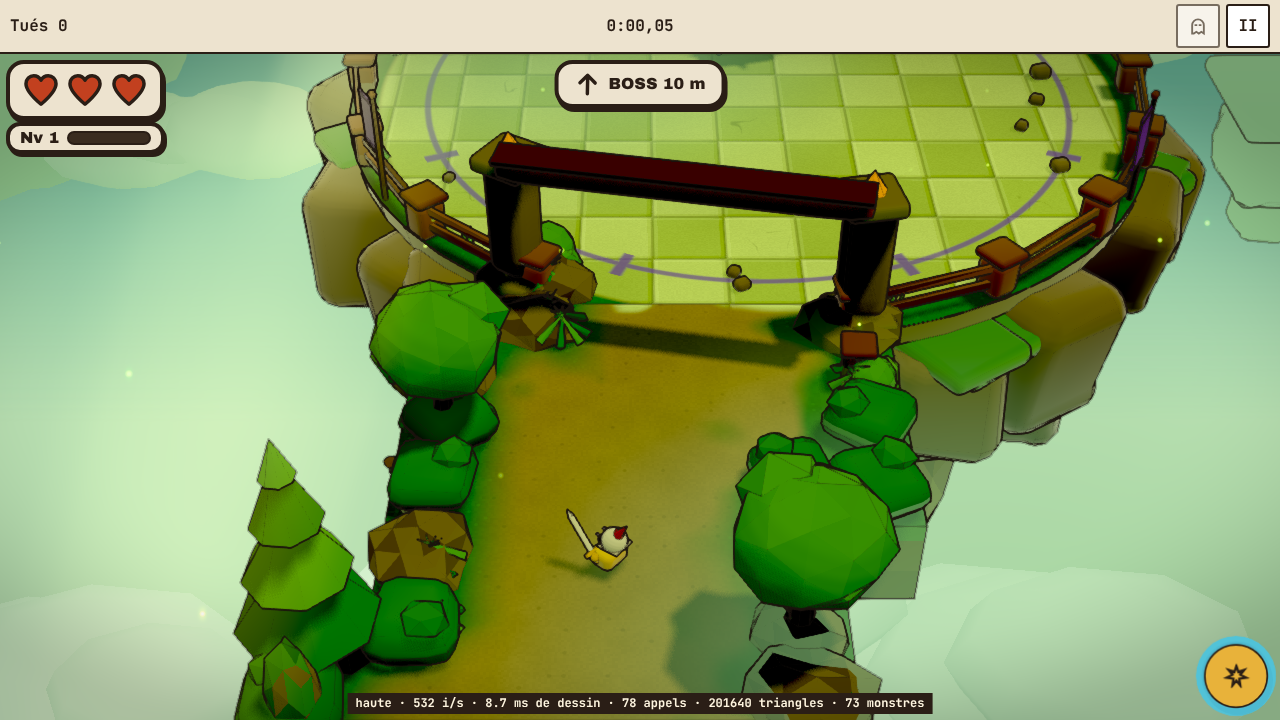
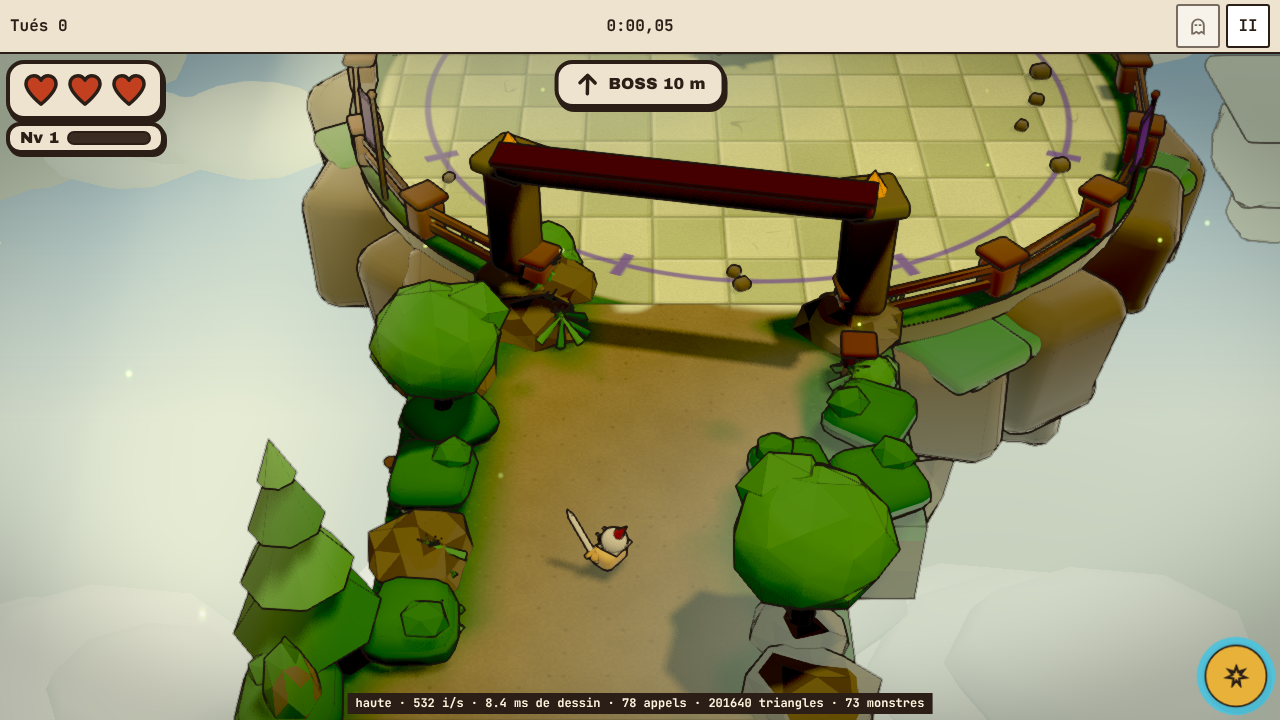
Lot BR-A2 : sous-bois moins verdâtre (lumière, ciel, brume, étalonnage, dalles), captures refaites, note sur la CI
Claude-Session: https://claude.ai/code/session_012eMWG1PEoCaJhKtErBeVDJ

diff --git a/apps/rush/src/palette.ts b/apps/rush/src/palette.ts
@@ -70,10 +70,10 @@ export const PALETTES: Readonly<Record<string, PaletteMonde>> = {
     particules: { genre: "poussiere", couleur: 0xf0d2a0, couleur2: 0xe0b878, nombre: 200, taille: 0.2 }, rais: 0.15, brumeBasse: 0.3,
   },
   "sousbois": {
-    fond: 0xa6c9a4, sol: 0xd6e3a6, sol2: 0xc3d58c, mur: 0x3e7a3c, murHaut: 0x5a9a4c, lumiere: 0xfff1bf, ambiance: 0xcfe2b4, intensiteLumiere: 1.75, intensiteAmbiance: 1.05, hemiCiel: 0xc2dcbb, hemiSol: 0xa9c283, brume: 0xa4c9a2,
-    tranche: 0x8f8a58, falaise: 0x6e5f44, falaise2: 0x8a7a58, herbe: 0x6fae5a, herbe2: 0x4f9148, bois: 0x8e5f36, bois2: 0x62412a, nuage: 0xeaf6e4, cielHaut: 0x7fb4a6, cielBas: 0xc4dcc0,
-    terre: 0xb09a62, terre2: 0xa08a54, herbeSol: 0x4a8c3c, herbeSol2: 0x3d7a32, brumeProche: 40, brumeLoin: 120, soleil: [7, 19, -2],
-    etalonnage: { bloom: 1.3, vignette: 0.42, teinte: [0.9, 0.99, 0.88], saturation: 1.1, contraste: 1.12 },
+    fond: 0xb4c2b0, sol: 0xe4e8b8, sol2: 0xd4dca4, mur: 0x3e7a3c, murHaut: 0x5a9a4c, lumiere: 0xffe9b6, ambiance: 0xdcdcc6, intensiteLumiere: 1.8, intensiteAmbiance: 1.05, hemiCiel: 0xd0d8d0, hemiSol: 0xb8b08c, brume: 0xb9c3b2,
+    tranche: 0x8f8a58, falaise: 0x6e5f44, falaise2: 0x8a7a58, herbe: 0x6fae5a, herbe2: 0x4f9148, bois: 0x8e5f36, bois2: 0x62412a, nuage: 0xf0f2ea, cielHaut: 0x93b0bd, cielBas: 0xd2dacf,
+    terre: 0xb09a68, terre2: 0xa08a5a, herbeSol: 0x558842, herbeSol2: 0x487a38, brumeProche: 40, brumeLoin: 120, soleil: [7, 19, -2],
+    etalonnage: { bloom: 1.3, vignette: 0.4, teinte: [0.97, 0.97, 0.92], saturation: 1.0, contraste: 1.1 },
     particules: { genre: "lucioles", couleur: 0xe6ff7a, couleur2: 0xb8ff9a, nombre: 90, taille: 0.16 }, rais: 0.9, brumeBasse: 0.8,
   },
 };

diff --git a/docs/rush/lots/lot-BR-A2-monde.md b/docs/rush/lots/lot-BR-A2-monde.md
@@ -24,6 +24,7 @@ Avant : `br-a2-avant-*.png` (le jour, la salle d'épreuve, le boss, la vitrine ;
 | 1 | `br-a2-tour1-planche-{a,b,vitrines}.png` | **carrière** : sol presque blanc, soleil trop dur ; **sous-bois** : lavé, sans ombre ni brume ; peu d'îles lointaines ; cercle de l'épreuve trop pâle ; encoches de l'anneau du boss trop larges ; entrée de l'arène hors champ dans la capture → sol de la carrière plus gris-bleu (`lisibilite` ≥ 40 gardé), soleil de la carrière à 2,0 ; sous-bois : soleil 1,75, ambiance 1,05, étalonnage sombre et frais (teinte 0,9 / 0,99 / 0,88), vignettage 0,42, brume plus verte ; 2,6 fois plus d'îles ; cercle plus sombre ; encoches fines ; capture à 9 m de l'arène |
 | 2 | `br-a2-tour2-planche-{a,b,vitrines}.png` | brins d'herbe réduits à des pointes noires par le contour ; herbe du sous-bois trop sombre ; damier de la prairie trop pâle et sans contraste entre dalles → brins larges et moins nombreux, fleurs plus grosses, herbe du sous-bois plus claire, contraste du damier dans le matériau, sable de la prairie plus chaud (limité par la tête du golem : ΔE ≥ 40) |
 | 3 | `br-a2-t3-*.png` (18 images) et les comparaisons | écarts restants : §5 |
+| retour de Nathan | `br-a2-t3-*-sousbois.png` refaites | **sous-bois trop verdâtre** (lumière, ciel, brume, étalonnage, dalles toutes vertes) → teinte de l'étalonnage presque neutre (0,97 / 0,97 / 0,92, saturation 1), lumière chaude, ciel gris-bleu, brume grise, hémisphérique neutre, dalles vert-jaune pâle ; l'ombre (vignettage, brume basse), les rais et les lucioles restent ; prairie et carrière inchangées |
 
 ## 4. Mesures
 **Golden** : `packages/rush-sim` non modifié ; `npx vitest run --project sqlite packages/rush-sim` (dont le golden et le déterminisme) vert, golden inchangé au bit près. **Tests** : `apps/rush` (unitaires : 213 tests) vert ; **les 51 tests e2e de Rush (Chromium, en local) verts**, dont `monde.spec.ts` ; `packages/rush-sim` : 358 tests verts, aucun fichier du paquet modifié. `npm run consignes`, `npm run fiches` à jour.
@@ -49,6 +50,9 @@ Avant le lot : 57 à 65 appels et 142 k triangles sur le jour (haute), 58 appels
 - **Le muret** : la cible a des poteaux de bois taillés, aux arêtes écaillées ; les nôtres sont des blocs arrondis (la fabrique est faite pour qu'un modèle les remplace).
 - **La bande du haut** est celle du kit (pas de pastille « RUSH · DAILY RUN », ni de chrono en pastille) ; les boutons du téléphone n'ont pas les icônes pleines de la cible. Lot de plateforme à venir.
 - **Peu de nuages proches** et pas de lumières dorées sur le chemin (les gemmes de la cible) : les gemmes viennent de BR2.
+
+## 5 bis. CI
+Le job « jeu fictif (3/3) » a échoué sur deux tests de **temps de génération de Track** (`packages/sim/test/blocs58-avant-apres.test.ts` : 890 ms contre 857 ; `variete365.test.ts` : 5 044 ms contre 4 500), une zone que ce lot ne touche pas, sur un runner chargé (le job a duré 17 min). Règle d'arrêt : un nouveau commit relance la CI une fois ; s'il échoue encore, c'est à Nathan de trancher, on ne corrige pas.
 
 ## 6. Ce qui n'est pas vérifié
 - **Aucun téléphone réel** : appels et triangles sont mesurés, pas les images par seconde ni la chaleur ; le vent est un calcul de sommet, les particules un `Points` de 260 points : légers, mais **à essayer sur un vrai appareil**. Le passage automatique en basse (30 i/s) reste actif.
